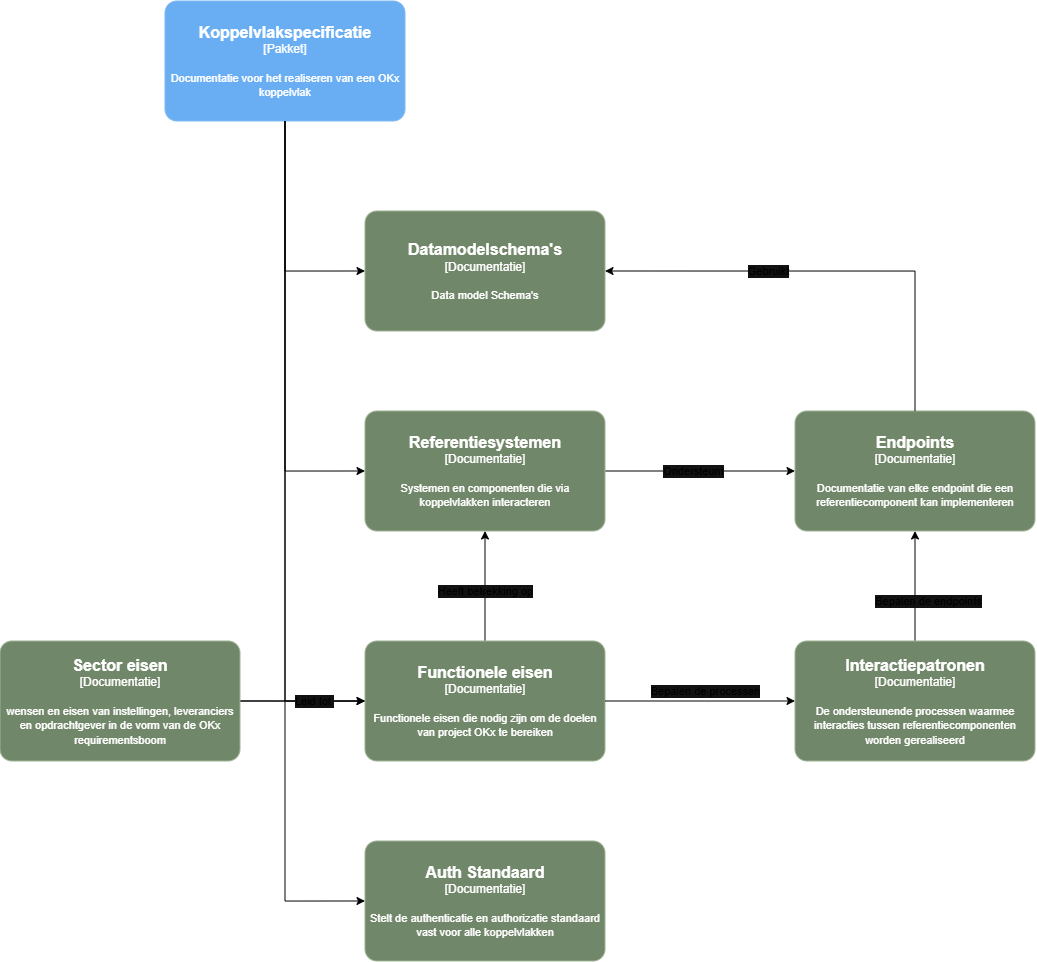
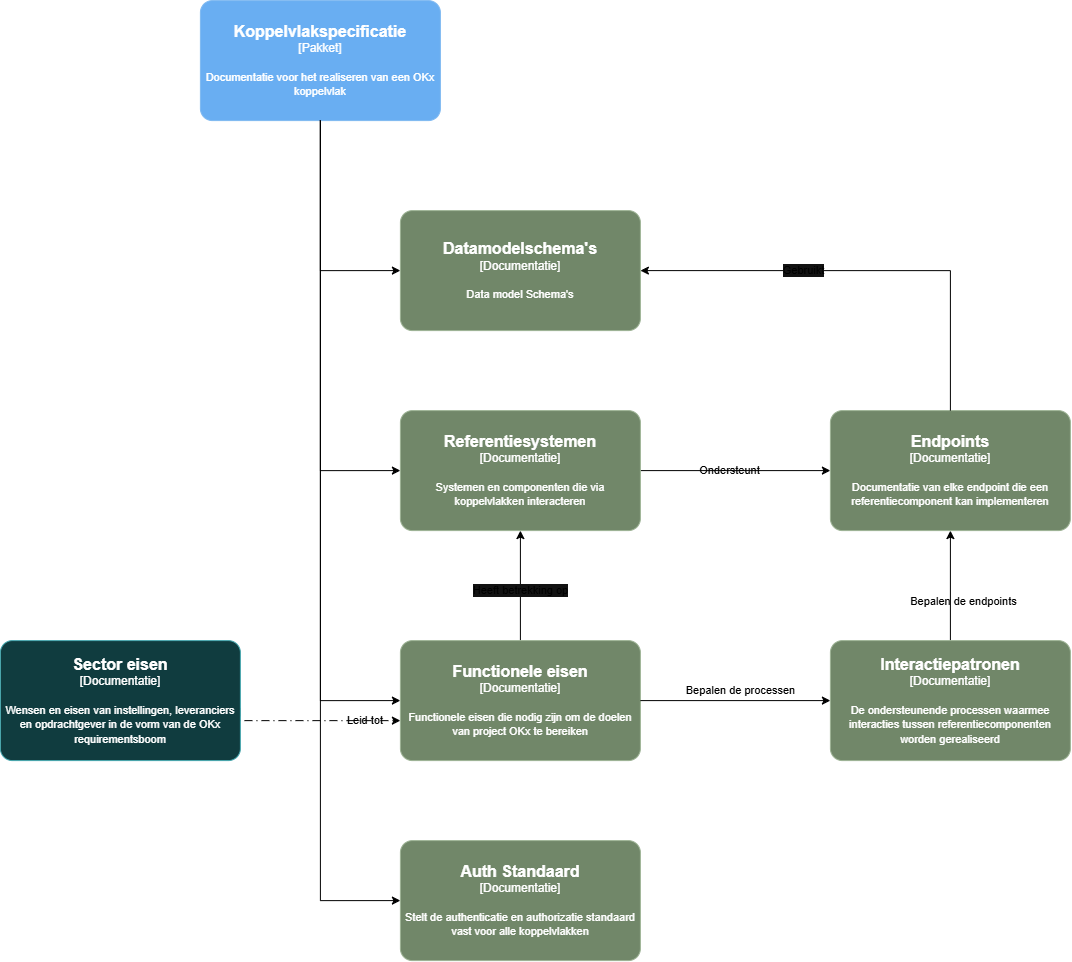
Opbouw-slide: nieuwe plaatversie, blokvolgorde en meer plaatruimte
Volgorde is functionele eisen, spelers, interactiepatronen, endpoints,
datamodelschema's; de leeswijzerbalk is weg en de compactere blokjes
geven de plaat de ruimte.

Claude-Session: https://claude.ai/code/session_01NZet75nkjDbtTTY4dGxZqM

diff --git a/presentaties/260819_kerngroep_techniek.md b/presentaties/260819_kerngroep_techniek.md
@@ -360,21 +360,17 @@ document.
 
 # De opbouw van een koppelvlakspecificatie
 
-<div class="np-grid-2" style="margin-top: 0.5rem; align-items: center; gap: 1rem;">
-<div style="display: flex; flex-direction: column; gap: 0.35rem; font-size: 0.76rem;">
-  <div class="np-card accent-blue" style="padding: 0.4rem 0.7rem;"><strong>Functionele eisen</strong>: wat moet dit koppelvlak concreet doen om de sectoreisen waar te maken?</div>
-  <div class="np-card accent-orange" style="padding: 0.4rem 0.7rem;"><strong>Interactiepatronen</strong>: de machine-naar-machineprocessen waarmee applicatiecomponenten interacteren</div>
-  <div class="np-card accent-blue" style="padding: 0.4rem 0.7rem;"><strong>Applicatiecomponenten</strong>: wie zijn de spelers in de keten?</div>
-  <div class="np-card accent-green" style="padding: 0.4rem 0.7rem;"><strong>Endpoints</strong>: de aanspreekpunten waarmee een speler zijn verantwoordelijkheden waarmaakt</div>
-  <div class="np-card accent-green" style="padding: 0.4rem 0.7rem;"><strong>Datamodelschema's</strong>: de exacte afspraak waarmee gegevens worden uitgewisseld</div>
+<div style="display: grid; grid-template-columns: 1fr 2.3fr; gap: 1rem; align-items: center; margin-top: 0.5rem;">
+<div style="display: flex; flex-direction: column; gap: 0.3rem; font-size: 0.72rem; line-height: 1.45;">
+  <div class="np-card accent-blue" style="padding: 0.35rem 0.6rem;"><strong>Functionele eisen</strong><br/>Wat moet dit koppelvlak concreet doen om de sectoreisen waar te maken?</div>
+  <div class="np-card accent-blue" style="padding: 0.35rem 0.6rem;"><strong>Applicatiecomponenten</strong><br/>De spelers: welke systemen interacteren met elkaar?</div>
+  <div class="np-card accent-orange" style="padding: 0.35rem 0.6rem;"><strong>Interactiepatronen</strong><br/>De machine-naar-machineprocessen waarmee de spelers interacteren</div>
+  <div class="np-card accent-green" style="padding: 0.35rem 0.6rem;"><strong>Endpoints</strong><br/>De aanspreekpunten waarmee een speler zijn verantwoordelijkheden waarmaakt</div>
+  <div class="np-card accent-green" style="padding: 0.35rem 0.6rem;"><strong>Datamodelschema's</strong><br/>De exacte afspraak waarmee gegevens worden uitgewisseld</div>
 </div>
 <div style="display: flex; justify-content: center;">
-  <img src="/platen/koppelvlak-specificatie-breakdown.png" style="max-height: 430px; max-width: 100%; width: auto;" />
+  <img src="/platen/koppelvlak-specificatie-breakdown.png" style="max-height: 470px; max-width: 100%; width: auto;" />
 </div>
-</div>
-
-<div class="np-bottomline" style="margin-top: 0.5rem;">
-  Volg de pijlen: de <strong>sectoreisen</strong> voeden de functionele eisen; die bepalen de processen, de processen de <strong>endpoints</strong>, en endpoints gebruiken de <strong>datamodelschema's</strong>.
 </div>
 
 </div>
